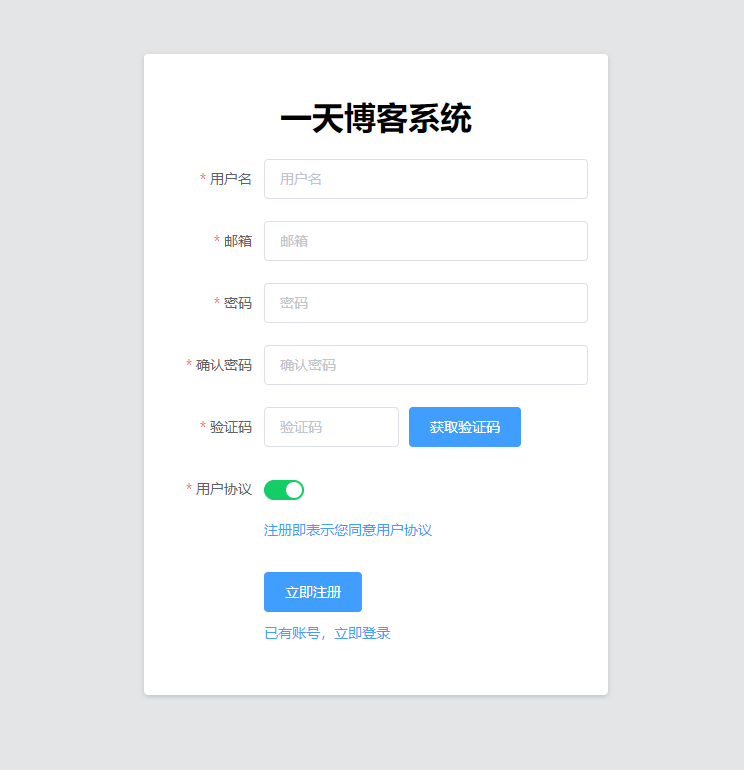
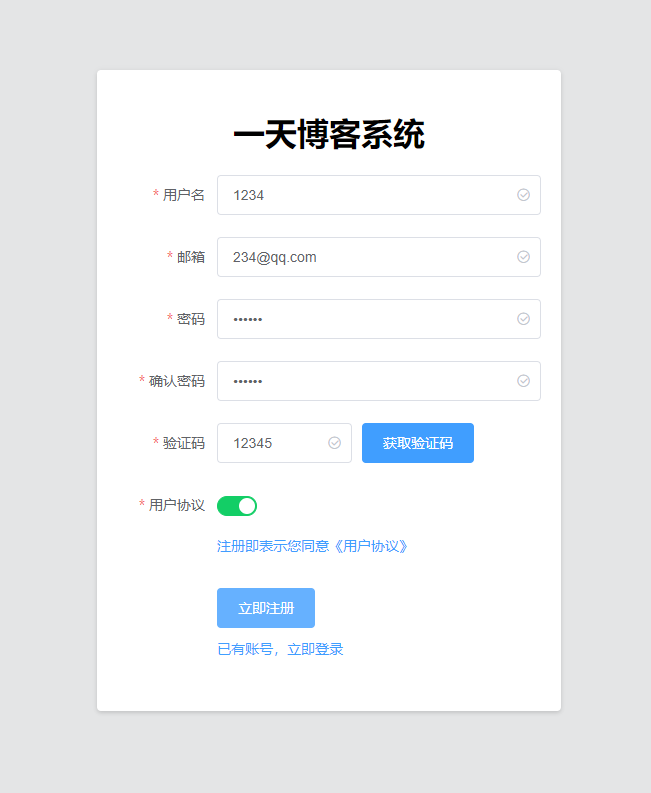
send http request

diff --git a/blog-vue/src/views/pages/register/index.vue b/blog-vue/src/views/pages/register/index.vue
@@ -23,7 +23,10 @@
                             <el-input v-model="register.code" :placeholder='$t("register.code")'></el-input>
                         </el-col>
                         <el-col :span="5" class="ml-10">
-                            <el-button type="primary" @click="getCode" :disabled="!(countDown.canClick && this.countDown.emailSate) "> {{countDown.sendCodeMsg}}</el-button>
+                            <el-button type="primary" @click="getCode"
+                                       :disabled="!(countDown.canClick && this.countDown.emailSate) ">
+                                {{countDown.sendCodeMsg}}
+                            </el-button>
                         </el-col>
                     </el-form-item>
                     <el-form-item :label='$t("register.protocol")' :required=true>
@@ -49,6 +52,7 @@
 
 <script>
     import {validEmail} from "@/utils/validator";
+    import axios from "axios";
 
     export default {
         name: "Register",
@@ -61,14 +65,14 @@
                 }
             }
 
-            let checkEmail = (rule,value,callback) =>{
-               if (validEmail(value)) {
-                   this.countDown.emailSate = true
-                   callback()
-               }else {
-                   this.countDown.emailSate = false
-                   callback(new Error(this.$t("feedback.email_format")))
-               }
+            let checkEmail = (rule, value, callback) => {
+                if (validEmail(value)) {
+                    this.countDown.emailSate = true
+                    callback()
+                } else {
+                    this.countDown.emailSate = false
+                    callback(new Error(this.$t("feedback.email_format")))
+                }
             }
 
             return {
@@ -80,7 +84,7 @@
                     code: '12345',
                     protocol: true
                 },
-                countDown:{
+                countDown: {
                     sendCodeMsg: this.$t("button.get_code"),
                     totalTime: 60,
                     canClick: true,
@@ -135,6 +139,14 @@
                     return;
                 }
 
+                axios
+                    .post("register", this.register)
+                    .then(response => {
+                        console.log("success")
+                    })
+                    .catch(error => {
+                        console.log("fail");
+                    });
             },
             getCode() {
                 if (!this.countDown.canClick) {
@@ -147,11 +159,21 @@
                     this.countDown.sendCodeMsg = this.countDown.totalTime + this.$t("button.get_code_after")
                     if (this.countDown.totalTime < 0) {
                         window.clearInterval(clock)
-                        this.countDown.sendCodeMsg =  this.$t("button.get_code")
+                        this.countDown.sendCodeMsg = this.$t("button.get_code")
                         this.countDown.totalTime = 60
                         this.countDown.canClick = true
                     }
                 }, 1000);
+
+                axios
+                    .post("code", this.register.email)
+                    .then(response => {
+                        console.log("success")
+                    })
+                    .catch(error => {
+                        console.log("fail");
+                    });
+
             }
 
         }
